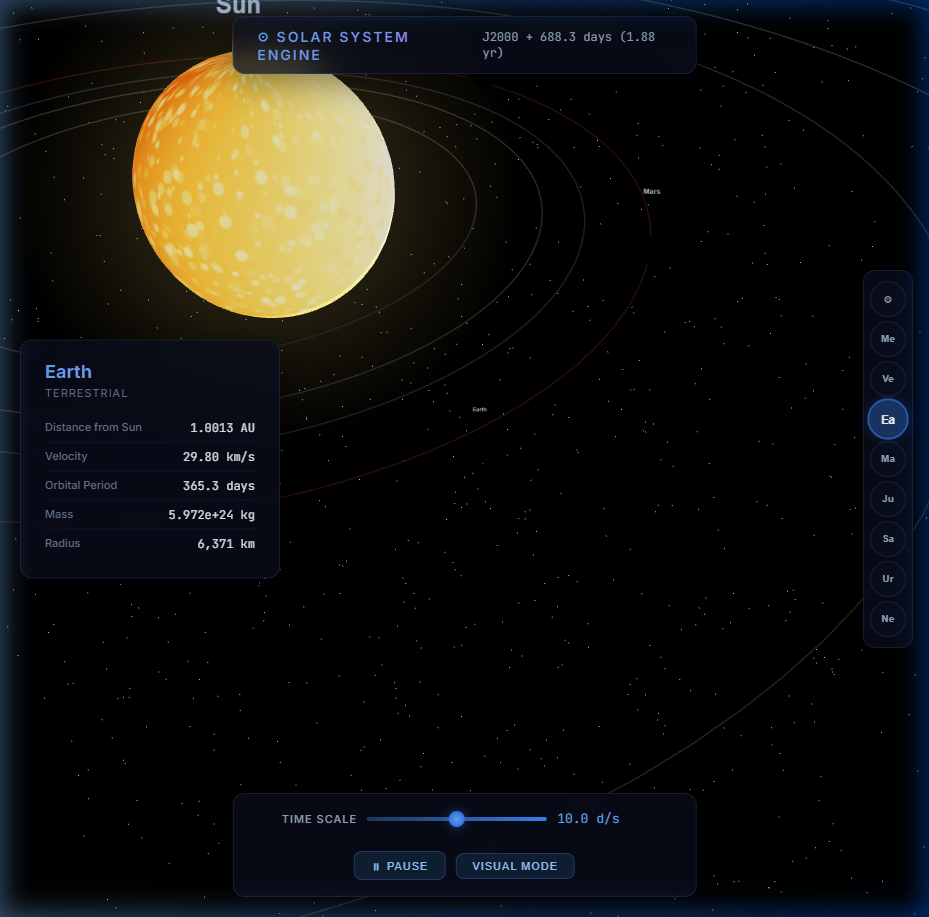
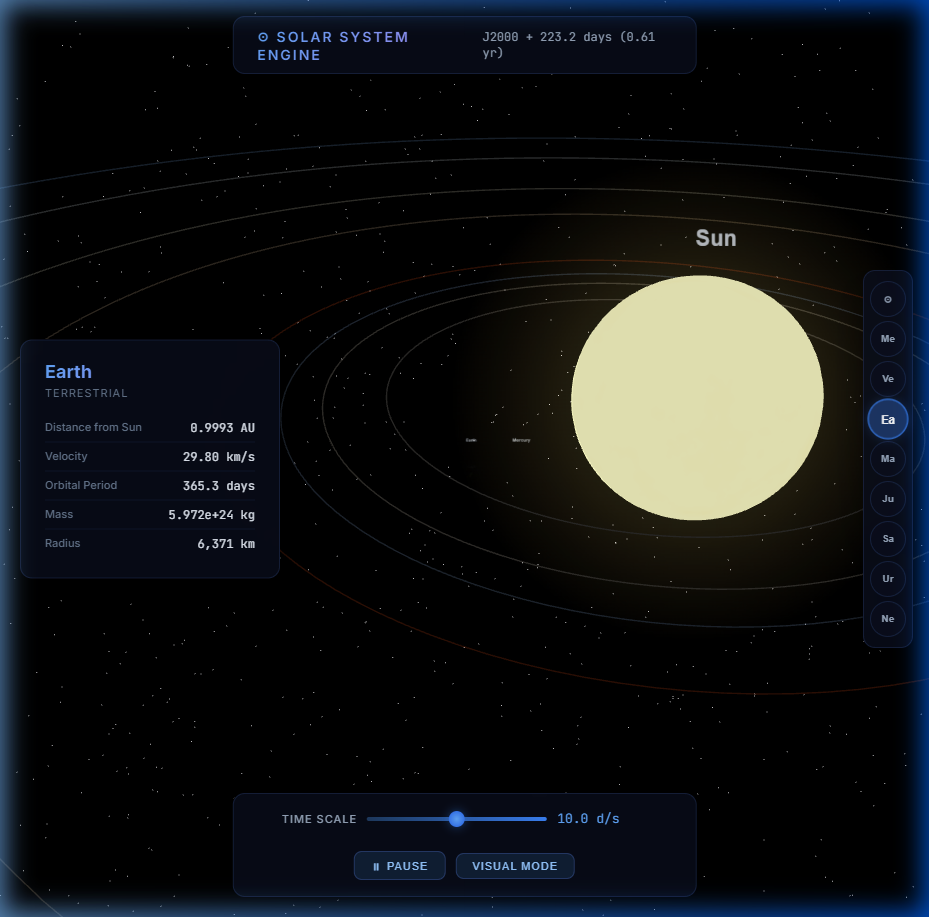
Update README with realistic textures and true scale screenshots

diff --git a/solar-system.html b/solar-system.html
@@ -131,79 +131,172 @@ const BODIES = [
 ];
 
 /* ═══════════════════ TEXTURE GENERATION ═══════════════════ */
-function noise2D(x,y){let n=Math.sin(x*127.1+y*311.7)*43758.5453;return n-Math.floor(n)}
-function fbm(x,y,oct=5){let v=0,a=0.5,f=1;for(let i=0;i<oct;i++){v+=a*noise2D(x*f,y*f);f*=2;a*=0.5}return v}
+function hash(x,y){let n=Math.sin(x*127.1+y*311.7)*43758.5453;return n-Math.floor(n)}
+function noise2D(px,py){
+  const ix=Math.floor(px),iy=Math.floor(py),fx=px-ix,fy=py-iy;
+  const sx=fx*fx*(3-2*fx),sy=fy*fy*(3-2*fy);
+  const a=hash(ix,iy),b=hash(ix+1,iy),c=hash(ix,iy+1),d=hash(ix+1,iy+1);
+  return a+(b-a)*sx+(c-a)*sy+(d-c-b+a)*sx*sy;
+}
+function fbm(x,y,oct=6){let v=0,a=0.5,f=1;for(let i=0;i<oct;i++){v+=a*noise2D(x*f,y*f);f*=2.0;a*=0.5}return v}
+function lerp(a,b,t){return a+(b-a)*t}
+function clamp(v,lo=0,hi=1){return Math.max(lo,Math.min(hi,v))}
 
-function genTexture(type,w=512,h=256){
+function genTexture(type,w=1024,h=512){
   const c=document.createElement('canvas');c.width=w;c.height=h;
   const ctx=c.getContext('2d');
+  const id=ctx.createImageData(w,h);const d=id.data;
   const gen={
     sun(){
-      const g=ctx.createRadialGradient(w/2,h/2,0,w/2,h/2,w/2);
-      g.addColorStop(0,'#fffbe6');g.addColorStop(0.3,'#ffe066');g.addColorStop(0.7,'#ff9900');g.addColorStop(1,'#cc5500');
-      ctx.fillStyle=g;ctx.fillRect(0,0,w,h);
-      for(let i=0;i<2000;i++){const x=Math.random()*w,y=Math.random()*h;const b=Math.random();
-        ctx.fillStyle=`rgba(255,${180+b*75},${50+b*100},${0.3+b*0.4})`;
-        ctx.beginPath();ctx.arc(x,y,1+Math.random()*3,0,Math.PI*2);ctx.fill()}
+      for(let y=0;y<h;y++)for(let x=0;x<w;x++){
+        const i=(y*w+x)*4;
+        const n1=fbm(x/120+0.5,y/120+0.5,5);
+        const n2=fbm(x/40+10,y/40+10,4)*0.3;
+        const bright=clamp(0.7+n1*0.4+n2);
+        d[i]=255;d[i+1]=Math.min(255,(200+bright*55)|0);d[i+2]=Math.min(255,(50+bright*80)|0);d[i+3]=255;
+      }
+      ctx.putImageData(id,0,0);
     },
     mercury(){
-      ctx.fillStyle='#8a8278';ctx.fillRect(0,0,w,h);
-      for(let i=0;i<600;i++){const x=Math.random()*w,y=Math.random()*h,r=1+Math.random()*8;
-        const b=120+Math.random()*40;ctx.fillStyle=`rgb(${b},${b-5},${b-10})`;
-        ctx.beginPath();ctx.arc(x,y,r,0,Math.PI*2);ctx.fill();
-        ctx.strokeStyle=`rgba(60,55,50,0.3)`;ctx.lineWidth=0.5;ctx.stroke()}
+      for(let y=0;y<h;y++)for(let x=0;x<w;x++){
+        const i=(y*w+x)*4;
+        const n=fbm(x/60+3,y/60+3,6);
+        const base=clamp(0.25+n*0.45);
+        const crater=fbm(x/20+50,y/20+50,4);
+        const c2=crater>0.6?base*0.7:base;
+        const v=(c2*180)|0;
+        d[i]=v+10;d[i+1]=v+5;d[i+2]=v;d[i+3]=255;
+      }
+      ctx.putImageData(id,0,0);
     },
     venus(){
-      for(let y2=0;y2<h;y2++)for(let x2=0;x2<w;x2++){
-        const n=fbm(x2/80,y2/80,4);const r=200+n*40,g2=170+n*50,b=120+n*30;
-        ctx.fillStyle=`rgb(${r|0},${g2|0},${b|0})`;ctx.fillRect(x2,y2,1,1)}
+      for(let y=0;y<h;y++)for(let x=0;x<w;x++){
+        const i=(y*w+x)*4;
+        const n1=fbm(x/100+7,y/80+7,5);
+        const n2=fbm(x/40+20,y/50+20,4)*0.3;
+        const v=clamp(0.5+n1*0.4+n2);
+        d[i]=(180+v*60)|0;d[i+1]=(140+v*50)|0;d[i+2]=(60+v*40)|0;d[i+3]=255;
+      }
+      ctx.putImageData(id,0,0);
     },
     earth(){
-      ctx.fillStyle='#1a4d7a';ctx.fillRect(0,0,w,h);
-      const continents=[[0.2,0.3,60],[0.35,0.45,80],[0.6,0.35,50],[0.65,0.55,90],[0.8,0.4,40],[0.15,0.7,35]];
-      continents.forEach(([cx,cy,s])=>{ctx.fillStyle=`rgb(${60+Math.random()*40|0},${100+Math.random()*50|0},${50+Math.random()*30|0})`;
-        for(let i=0;i<s;i++){const a=Math.random()*Math.PI*2,r=Math.random()*s*0.8;
-          ctx.beginPath();ctx.arc(cx*w+Math.cos(a)*r,cy*h+Math.sin(a)*r,5+Math.random()*15,0,Math.PI*2);ctx.fill()}});
-      for(let i=0;i<300;i++){ctx.fillStyle=`rgba(255,255,255,${0.1+Math.random()*0.25})`;
-        ctx.beginPath();ctx.arc(Math.random()*w,Math.random()*h,3+Math.random()*12,0,Math.PI*2);ctx.fill()}
-      ctx.fillStyle='rgba(255,255,255,0.9)';
-      ctx.beginPath();ctx.ellipse(w*0.15,20,40,12,0,0,Math.PI*2);ctx.fill();
-      ctx.beginPath();ctx.ellipse(w*0.85,h-20,35,10,0,0,Math.PI*2);ctx.fill();
+      for(let y=0;y<h;y++)for(let x=0;x<w;x++){
+        const i=(y*w+x)*4;
+        const lat=(y/h-0.5)*Math.PI;
+        const lon=(x/w)*Math.PI*2;
+        const n=fbm(lon*2+1,lat*4+1,6);
+        const land=n>0.48;
+        const polar=Math.abs(lat)>1.25;
+        if(polar){
+          const snow=clamp((Math.abs(lat)-1.25)*4);
+          d[i]=(220+snow*35)|0;d[i+1]=(225+snow*30)|0;d[i+2]=(235+snow*20)|0;
+        } else if(land){
+          const elev=clamp((n-0.48)*5);
+          const desert=fbm(lon*3+10,lat*5+10,3)>0.55;
+          if(desert){d[i]=(160+elev*40)|0;d[i+1]=(140+elev*30)|0;d[i+2]=(90+elev*20)|0;}
+          else{d[i]=(40+elev*50)|0;d[i+1]=(90+elev*60)|0;d[i+2]=(30+elev*30)|0;}
+        } else {
+          const depth=clamp((0.48-n)*3);
+          d[i]=(15+depth*20)|0;d[i+1]=(40+depth*60)|0;d[i+2]=(120+depth*60)|0;
+        }
+        const cloud=fbm(lon*3+50,lat*3+50,4);
+        if(cloud>0.55){
+          const ca=clamp((cloud-0.55)*5)*0.7;
+          d[i]=lerp(d[i],245,ca)|0;d[i+1]=lerp(d[i+1],248,ca)|0;d[i+2]=lerp(d[i+2],255,ca)|0;
+        }
+        d[i+3]=255;
+      }
+      ctx.putImageData(id,0,0);
     },
     mars(){
-      for(let y2=0;y2<h;y2++)for(let x2=0;x2<w;x2++){
-        const n=fbm(x2/60,y2/60,4);const r=160+n*60,g2=80+n*30,b=40+n*20;
-        ctx.fillStyle=`rgb(${r|0},${g2|0},${b|0})`;ctx.fillRect(x2,y2,1,1)}
-      ctx.fillStyle='rgba(255,255,255,0.8)';ctx.beginPath();ctx.ellipse(w*0.5,10,25,8,0,0,Math.PI*2);ctx.fill();
+      for(let y=0;y<h;y++)for(let x=0;x<w;x++){
+        const i=(y*w+x)*4;
+        const lat=(y/h-0.5)*Math.PI;
+        const n=fbm(x/70+5,y/70+5,6);
+        const dark=fbm(x/120+30,y/100+30,4);
+        const base=clamp(0.4+n*0.5);
+        const polar=Math.abs(lat)>1.35?clamp((Math.abs(lat)-1.35)*6):0;
+        const isDark=dark>0.55;
+        let r,g,b;
+        if(polar>0){r=lerp(180,230,polar)|0;g=lerp(100,220,polar)|0;b=lerp(60,210,polar)|0;}
+        else if(isDark){r=(120+base*40)|0;g=(60+base*25)|0;b=(40+base*15)|0;}
+        else{r=(180+base*50)|0;g=(100+base*30)|0;b=(50+base*20)|0;}
+        d[i]=r;d[i+1]=g;d[i+2]=b;d[i+3]=255;
+      }
+      ctx.putImageData(id,0,0);
     },
     jupiter(){
-      const bands=[[0,'#c4a882'],[0.15,'#d4a060'],[0.25,'#e8cfa8'],[0.35,'#c49060'],[0.45,'#d4b088'],
-        [0.55,'#a07050'],[0.62,'#d4a878'],[0.7,'#c49868'],[0.8,'#e0c8a0'],[0.9,'#c4a070'],[1,'#b09060']];
-      for(let y2=0;y2<h;y2++){const t=y2/h;let col=bands[0][1];
-        for(let i=1;i<bands.length;i++)if(t<=bands[i][0]){col=bands[i][1];break}
-        ctx.fillStyle=col;ctx.fillRect(0,y2,w,1)}
-      ctx.fillStyle='#c45030';ctx.beginPath();ctx.ellipse(w*0.65,h*0.6,22,14,0.1,0,Math.PI*2);ctx.fill();
-      ctx.fillStyle='#d46040';ctx.beginPath();ctx.ellipse(w*0.65,h*0.6,16,10,0.1,0,Math.PI*2);ctx.fill();
+      for(let y=0;y<h;y++)for(let x=0;x<w;x++){
+        const i=(y*w+x)*4;
+        const t=y/h;
+        const warp=fbm(x/200+1,y/30+1,4)*0.03;
+        const band=Math.sin((t+warp)*Math.PI*12);
+        const n=fbm(x/80+2,y/160+2,5)*0.2;
+        const v=clamp(0.5+band*0.3+n);
+        // Realistic Jupiter palette: cream, tan, rust-brown, ochre
+        const zones=[
+          [235,220,190],[210,180,140],[180,130,90],[220,195,160],[200,160,120],
+          [230,210,175],[190,145,100],[215,190,155],[195,155,110],[225,205,170]
+        ];
+        const zi=Math.floor(t*zones.length)%zones.length;
+        const zn=(zi+1)%zones.length;
+        const zt=(t*zones.length)%1;
+        let r=lerp(zones[zi][0],zones[zn][0],zt);let g=lerp(zones[zi][1],zones[zn][1],zt);let b=lerp(zones[zi][2],zones[zn][2],zt);
+        r=clamp((r+v*30-15)/255)*255;g=clamp((g+v*25-12)/255)*255;b=clamp((b+v*20-10)/255)*255;
+        // Great Red Spot
+        const dx=(x/w-0.6)*2,dy=(t-0.58)*6;
+        const spotDist=dx*dx*1.5+dy*dy;
+        if(spotDist<0.08){
+          const si=clamp(1-spotDist/0.08);
+          r=lerp(r,190,si*0.8);g=lerp(g,90,si*0.8);b=lerp(b,60,si*0.8);
+        }
+        d[i]=r|0;d[i+1]=g|0;d[i+2]=b|0;d[i+3]=255;
+      }
+      ctx.putImageData(id,0,0);
     },
     saturn(){
-      const bands=[[0,'#e8d5a0'],[0.2,'#d4c490'],[0.4,'#c8b888'],[0.5,'#e0d0a0'],[0.7,'#d0c090'],[0.85,'#c4b080'],[1,'#d8c898']];
-      for(let y2=0;y2<h;y2++){const t=y2/h;let col=bands[0][1];
-        for(let i=1;i<bands.length;i++)if(t<=bands[i][0]){col=bands[i][1];break}
-        ctx.fillStyle=col;ctx.fillRect(0,y2,w,1)}
+      for(let y=0;y<h;y++)for(let x=0;x<w;x++){
+        const i=(y*w+x)*4;
+        const t=y/h;
+        const warp=fbm(x/250+3,y/40+3,3)*0.02;
+        const band=Math.sin((t+warp)*Math.PI*10)*0.15;
+        const n=fbm(x/100+5,y/200+5,4)*0.1;
+        const v=clamp(0.5+band+n);
+        // Muted gold/tan/cream Saturn palette
+        d[i]=(195+v*40)|0;d[i+1]=(175+v*35)|0;d[i+2]=(130+v*30)|0;d[i+3]=255;
+      }
+      ctx.putImageData(id,0,0);
     },
     uranus(){
-      const g=ctx.createLinearGradient(0,0,0,h);
-      g.addColorStop(0,'#b8e8f0');g.addColorStop(0.5,'#8cd0e0');g.addColorStop(1,'#a0d8e8');
-      ctx.fillStyle=g;ctx.fillRect(0,0,w,h);
-      for(let i=0;i<100;i++){ctx.fillStyle=`rgba(200,240,250,${0.05+Math.random()*0.1})`;
-        ctx.fillRect(0,Math.random()*h,w,1+Math.random()*2)}
+      for(let y=0;y<h;y++)for(let x=0;x<w;x++){
+        const i=(y*w+x)*4;
+        const t=y/h;
+        const n=fbm(x/150+8,y/150+8,4)*0.08;
+        const band=Math.sin(t*Math.PI*6)*0.03;
+        const v=clamp(0.5+n+band);
+        // Pale cyan-teal (Voyager 2 true color)
+        d[i]=(160+v*30)|0;d[i+1]=(210+v*25)|0;d[i+2]=(220+v*20)|0;d[i+3]=255;
+      }
+      ctx.putImageData(id,0,0);
     },
     neptune(){
-      const g=ctx.createLinearGradient(0,0,0,h);
-      g.addColorStop(0,'#3060c0');g.addColorStop(0.3,'#2850b0');g.addColorStop(0.6,'#4070d0');g.addColorStop(1,'#3060b8');
-      ctx.fillStyle=g;ctx.fillRect(0,0,w,h);
-      ctx.fillStyle='rgba(200,220,255,0.25)';
-      ctx.beginPath();ctx.ellipse(w*0.4,h*0.55,15,8,0.2,0,Math.PI*2);ctx.fill();
+      for(let y=0;y<h;y++)for(let x=0;x<w;x++){
+        const i=(y*w+x)*4;
+        const t=y/h;
+        const n=fbm(x/100+12,y/100+12,5)*0.15;
+        const band=Math.sin(t*Math.PI*8)*0.08;
+        const v=clamp(0.5+n+band);
+        // Deep vivid blue (Voyager 2)
+        d[i]=(50+v*30)|0;d[i+1]=(80+v*40)|0;d[i+2]=(180+v*50)|0;
+        // Faint bright storm spots
+        const spot=fbm(x/30+100,y/30+100,3);
+        if(spot>0.72){
+          const sa=clamp((spot-0.72)*8)*0.3;
+          d[i]=lerp(d[i],200,sa)|0;d[i+1]=lerp(d[i+1],220,sa)|0;d[i+2]=lerp(d[i+2],255,sa)|0;
+        }
+        d[i+3]=255;
+      }
+      ctx.putImageData(id,0,0);
     }
   };
   if(gen[type])gen[type]();
@@ -211,12 +304,19 @@ function genTexture(type,w=512,h=256){
 }
 
 function genRingTexture(){
-  const c=document.createElement('canvas');c.width=512;c.height=64;
+  const c=document.createElement('canvas');c.width=1024;c.height=64;
   const ctx=c.getContext('2d');
-  for(let x=0;x<512;x++){const t=x/512;
-    const a=(Math.sin(t*40)*0.3+0.5)*(t>0.15&&t<0.9?1:0)*0.7;
-    const r=190+Math.sin(t*20)*30|0,g=170+Math.sin(t*15)*25|0,b=140+Math.sin(t*25)*20|0;
-    ctx.fillStyle=`rgba(${r},${g},${b},${a})`;ctx.fillRect(x,0,1,64)}
+  for(let x=0;x<1024;x++){const t=x/1024;
+    // Realistic Saturn ring structure: C ring (dark), B ring (bright), Cassini division, A ring
+    let a=0,r=180,g=165,b=140;
+    if(t<0.12){a=0;} // inner gap
+    else if(t<0.28){a=clamp((t-0.12)*8)*0.35;r=140;g=125;b=105;} // C ring (faint)
+    else if(t<0.58){a=0.55+Math.sin(t*80)*0.15;r=200;g=185;b=155;} // B ring (bright)
+    else if(t<0.63){a=0.05;} // Cassini Division
+    else if(t<0.85){a=0.4+Math.sin(t*60)*0.1;r=190;g=175;b=148;} // A ring
+    else if(t<0.88){a=0.08;} // Encke gap
+    else{a=clamp((0.95-t)*8)*0.2;r=170;g=155;b=135;} // F ring (faint)
+    ctx.fillStyle=`rgba(${r},${g},${b},${clamp(a)})`;ctx.fillRect(x,0,1,64)}
   const tex=new THREE.CanvasTexture(c);tex.colorSpace=THREE.SRGBColorSpace;return tex;
 }
 
@@ -230,13 +330,13 @@ renderer.toneMappingExposure=1.2;
 document.body.prepend(renderer.domElement);
 
 const scene=new THREE.Scene();
-const camera=new THREE.PerspectiveCamera(55,window.innerWidth/window.innerHeight,0.01,50000);
+const camera=new THREE.PerspectiveCamera(55,window.innerWidth/window.innerHeight,0.001,500000);
 camera.position.set(20,15,25);
 
 const controls=new OrbitControls(camera,renderer.domElement);
 controls.enableDamping=true;controls.dampingFactor=0.06;
-controls.minDistance=0.5;controls.maxDistance=5000;
-controls.zoomSpeed=1.2;
+controls.minDistance=0.1;controls.maxDistance=50000;
+controls.zoomSpeed=1.5;
 
 /* ═══════════════════ STARFIELD ═══════════════════ */
 (function createStarfield(){
@@ -465,6 +565,18 @@ scaleBtn.addEventListener('click',()=>{
   scaleBtn.classList.toggle('active',!visualMode);
   rebuildOrbits();
   updateAllPositions();
+  // Reposition camera to a sensible distance for the new scale mode
+  if(targetPlanet!==null){
+    const tp=celestialObjects[targetPlanet].mesh.position;
+    const sz=getVisualSize(celestialObjects[targetPlanet].body);
+    const dist=Math.max(sz*5,visualMode?30:200);
+    camera.position.set(tp.x+dist*0.6,tp.y+dist*0.4,tp.z+dist*0.6);
+    controls.target.copy(tp);
+  } else {
+    if(!visualMode){camera.position.set(800,600,800);controls.target.set(0,0,0);}
+    else{camera.position.set(20,15,25);controls.target.set(0,0,0);}
+  }
+  controls.update();
 });
 
 function rebuildOrbits(){

diff --git a/README.md b/README.md
@@ -34,6 +34,10 @@ An interactive, high-fidelity 3D Solar System simulation built with **Three.js**
 ### Jupiter & Gas Giant Physics
 ![Jupiter Detail](screenshots/jupiter_hud.png)
 
+### True Scale Mode & Distant Zoom
+![True Scale Mode](screenshots/true_scale_mode.png)
+![True Scale Zoomed Out](screenshots/true_scale_zoomed_out.png)
+
 ## 🎮 How to Run
 
 Simply open `solar-system.html` in any modern web browser that supports WebGL.
